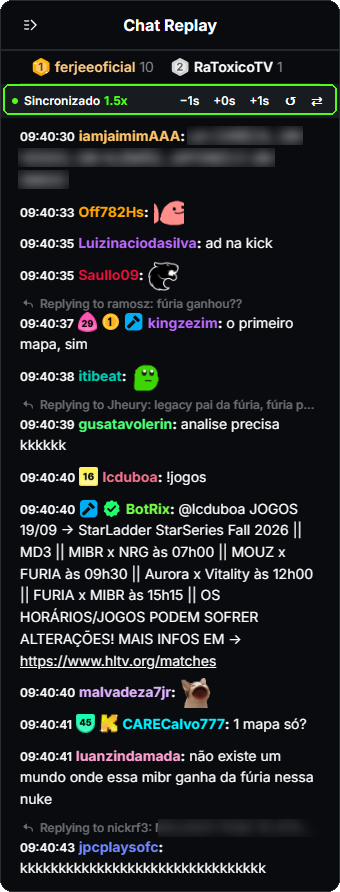
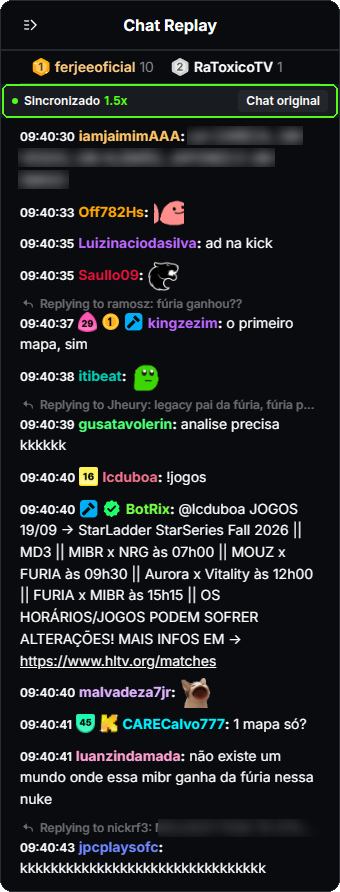
v0.5.0: sincronização sem ajuste manual e alternância com volta
- remove os botões −1s/+1s/↺: os horários já batem com o replay nativo
- "Chat original" deixa a barra no topo com "Voltar ao sincronizado"
  (antes o painel inteiro sumia e não tinha como voltar)
- aceita o <video> mesmo antes de carregar (autoplay bloqueado)
- remove a permissão "storage", que não é mais usada
- atualiza README e imagens

Claude-Session: https://claude.ai/code/session_01EjeUxsTjuwx9CrkYZjwtNL

Changed region(s): [[0.0, 0.0908, 1.0, 0.1513]]

diff --git a/extension/content.js b/extension/content.js
@@ -47,8 +47,6 @@
   const esc = (s) => String(s).replace(/[&<>"']/g, (c) =>
     ({ '&': '&amp;', '<': '&lt;', '>': '&gt;', '"': '&quot;', "'": '&#39;' }[c]));
 
-  const fmtOffset = (ms) => `${ms >= 0 ? '+' : ''}${(ms / 1000).toFixed(0)}s`;
-
   // ---------- render (mesma estrutura/medidas do chat nativo) ----------
   const EMOTE_RE = /\[emote:(\d+):([^\]]*)\]/g;
 
@@ -247,11 +245,11 @@
       if (c.panel.previousElementSibling !== native) native.after(c.panel);
       c.panel.classList.remove('kvcs-floating');
       native.classList.toggle('kvcs-native-hidden', !c.showNative);
-      c.panel.classList.toggle('kvcs-hidden', c.showNative);
+      c.panel.classList.toggle('kvcs-native-mode', c.showNative);
     } else if (c.panel.parentElement !== document.body) {
       document.body.appendChild(c.panel);
       c.panel.classList.add('kvcs-floating');
-      c.panel.classList.remove('kvcs-hidden');
+      c.panel.classList.remove('kvcs-native-mode');
     }
   }
 
@@ -260,15 +258,11 @@
     el.id = 'kvcs-panel';
     el.innerHTML = `
       <div class="kvcs-bar">
-        <span class="kvcs-dot" title="Chat sincronizado com o vídeo"></span>
+        <span class="kvcs-dot"></span>
         <span class="kvcs-title">Sincronizado</span>
         <span class="kvcs-rate"></span>
         <span class="kvcs-spacer"></span>
-        <button type="button" data-off="-1000" title="Mostrar o chat 1s antes">−1s</button>
-        <b class="kvcs-offval" title="Ajuste fino do chat"></b>
-        <button type="button" data-off="1000" title="Mostrar o chat 1s depois">+1s</button>
-        <button type="button" data-off="reset" title="Zerar ajuste">↺</button>
-        <button type="button" data-act="native" title="Alternar para o chat original da Kick">⇄</button>
+        <button type="button" class="kvcs-switch" data-act="native">Chat original</button>
       </div>
       <div class="kvcs-list" role="log"></div>
       <button type="button" class="kvcs-more" hidden>Novas mensagens ↓</button>
@@ -277,20 +271,25 @@
       const b = ev.target.closest('button');
       if (!b) return;
       if (b.classList.contains('kvcs-more')) { scrollToBottom(c); return; }
-      if (b.dataset.act === 'native') { c.showNative = !c.showNative; mountPanel(c); return; }
-      if (b.dataset.off) {
-        c.offsetMs = b.dataset.off === 'reset' ? 0 : c.offsetMs + Number(b.dataset.off);
-        try { chrome.storage?.local.set({ kvcsOffsetMs: c.offsetMs }); } catch { /* ok */ }
-        el.querySelector('.kvcs-offval').textContent = fmtOffset(c.offsetMs);
-        if (c.meta && c.video) resetTo(c, currentAbs(c));
-      }
+      if (b.dataset.act === 'native') setNativeMode(c, !c.showNative);
     });
     c.panel = el;
     c.list = el.querySelector('.kvcs-list');
     c.more = el.querySelector('.kvcs-more');
     c.list.addEventListener('scroll', () => { if (isAtBottom(c)) c.more.hidden = true; }, { passive: true });
-    el.querySelector('.kvcs-offval').textContent = fmtOffset(c.offsetMs);
+    setNativeMode(c, false);
+  }
+
+  // Alterna entre o chat sincronizado e o replay original da Kick.
+  // No modo original o painel encolhe para só a barra, que continua com o botão de voltar.
+  function setNativeMode(c, on) {
+    c.showNative = on;
+    c.panel.querySelector('.kvcs-title').textContent = on ? 'Chat original da Kick' : 'Sincronizado';
+    const btn = c.panel.querySelector('.kvcs-switch');
+    btn.textContent = on ? 'Voltar ao sincronizado' : 'Chat original';
+    btn.title = on ? 'Voltar ao chat sincronizado com o vídeo' : 'Mostrar o replay original da Kick';
     mountPanel(c);
+    if (!on) scrollToBottom(c);
   }
 
   function setStatus(c, text) {
@@ -322,7 +321,7 @@
   }
 
   // ---------- sincronização ----------
-  const currentAbs = (c) => c.meta.startMs + c.video.currentTime * 1000 + c.offsetMs;
+  const currentAbs = (c) => c.meta.startMs + c.video.currentTime * 1000;
 
   function resetTo(c, absMs) {
     c.gen++;
@@ -372,14 +371,16 @@
   }
 
   // ---------- ciclo de vida (Kick é SPA) ----------
-  async function waitForVideo(timeoutMs = 15000) {
-    const t0 = Date.now();
-    while (Date.now() - t0 < timeoutMs) {
+  // Basta o <video> existir: o player pode ficar sem carregar (autoplay bloqueado,
+  // aba em segundo plano) e só carregar quando o usuário der play. Os eventos do
+  // vídeo (play/seeked/timeupdate) cuidam do resto.
+  async function waitForVideo(c) {
+    for (;;) {
+      if (ctx !== c) return null;
       const v = document.querySelector('video');
-      if (v && v.readyState >= 1) return v;
-      await sleep(300);
+      if (v) return v;
+      await sleep(500);
     }
-    return null;
   }
 
   function teardown() {
@@ -395,25 +396,19 @@
     teardown();
     const c = {
       uuid, gen: 0, msgs: [], seen: new Set(), inflight: 0,
-      renderedUntil: 0, fetchCursor: 0, offsetMs: 0, showNative: false, error: '',
+      renderedUntil: 0, fetchCursor: 0, showNative: false, error: '',
     };
     ctx = c;
-    try {
-      const stored = await chrome.storage?.local.get('kvcsOffsetMs');
-      c.offsetMs = stored?.kvcsOffsetMs ?? 0;
-    } catch { /* storage indisponível: segue com 0 */ }
-
     buildPanel(c);
     setStatus(c, 'carregando VOD…');
     try {
       c.meta = await loadVodMeta(uuid, slug);
-      c.video = await waitForVideo();
-      if (!c.video) throw new Error('player não encontrado');
     } catch (e) {
       setStatus(c, `falhou: ${e.message}`);
       return;
     }
-    if (ctx !== c) return;
+    c.video = await waitForVideo(c);
+    if (ctx !== c || !c.video) return;
     setStatus(c, '');
     c.onVideoEvent = () => tick(c);
     bindVideo(c, c.video);

diff --git a/extension/styles.css b/extension/styles.css
@@ -25,7 +25,15 @@
 /* no lugar da lista nativa: ocupa o contêiner sem esticá-lo
    (o nativo usa contain: strict; aqui o equivalente é absolute + inset) */
 #kvcs-panel:not(.kvcs-floating) { position: absolute; inset: 0; }
-#kvcs-panel.kvcs-hidden { display: none; }
+/* modo "chat original": o painel vira só a barra, por cima do topo da lista nativa,
+   para o botão de voltar continuar acessível */
+#kvcs-panel.kvcs-native-mode { bottom: auto; border-bottom: 1px solid var(--kvcs-hover); }
+#kvcs-panel.kvcs-native-mode .kvcs-list,
+#kvcs-panel.kvcs-native-mode .kvcs-more,
+#kvcs-panel.kvcs-native-mode .kvcs-status,
+#kvcs-panel.kvcs-native-mode .kvcs-rate { display: none; }
+#kvcs-panel.kvcs-native-mode .kvcs-dot { background: var(--kvcs-muted); }
+#kvcs-panel.kvcs-floating .kvcs-switch { display: none; }
 .kvcs-native-hidden { display: none !important; }
 
 /* fallback quando a área do chat nativo não existe */
@@ -54,7 +62,6 @@
 .kvcs-title { font-weight: 600; margin-left: 2px; }
 .kvcs-rate { color: var(--kvcs-green); font-weight: 700; }
 .kvcs-spacer { flex: 1; }
-.kvcs-offval { min-width: 30px; text-align: center; font-weight: 600; font-variant-numeric: tabular-nums; }
 #kvcs-panel button {
   all: unset;
   box-sizing: border-box;
@@ -64,17 +71,17 @@
 }
 #kvcs-panel .kvcs-bar button {
   height: 22px;
-  min-width: 22px;
-  padding: 0 6px;
+  padding: 0 8px;
   border-radius: 4px;
+  background: var(--kvcs-hover);
   font-size: 12px;
   font-weight: 600;
   line-height: 22px;
   text-align: center;
   transition: background-color 150ms ease-out, transform 100ms;
 }
-#kvcs-panel .kvcs-bar button:hover { background: var(--kvcs-hover); }
-#kvcs-panel .kvcs-bar button:active { background: var(--kvcs-control); transform: scale(0.95); }
+#kvcs-panel .kvcs-bar button:hover { background: var(--kvcs-control); }
+#kvcs-panel .kvcs-bar button:active { background: var(--kvcs-name-hover); transform: scale(0.97); }
 #kvcs-panel .kvcs-bar button:focus-visible,
 #kvcs-panel .kvcs-more:focus-visible { outline: 2px solid var(--kvcs-green); outline-offset: 1px; }
 

diff --git a/README.md b/README.md
@@ -37,14 +37,12 @@ Funciona no Chrome e em navegadores baseados nele (Edge, Brave, Opera). No Firef
 
 ## Controles
 
-A barra fica no topo do chat:
+Não tem nada para configurar: o chat fica sincronizado o tempo todo. A barra no topo mostra o estado:
 
 | Controle | O que faz |
 | --- | --- |
-| **1.5x** | Velocidade atual do vídeo (só aparece fora de 1x) |
-| **−1s / +1s** | Ajuste fino, caso o chat pareça adiantado ou atrasado. Fica salvo |
-| **↺** | Zera o ajuste |
-| **⇄** | Alterna para o chat original da Kick e volta |
+| **Sincronizado 1.5x** | Chat da extensão ativo; a velocidade só aparece fora de 1x |
+| **Chat original** | Mostra o replay original da Kick. A barra continua no topo com **Voltar ao sincronizado** |
 | **Novas mensagens ↓** | Aparece se você rolar para cima; o chat não te puxa para baixo enquanto você lê |
 
 ## Limitações
